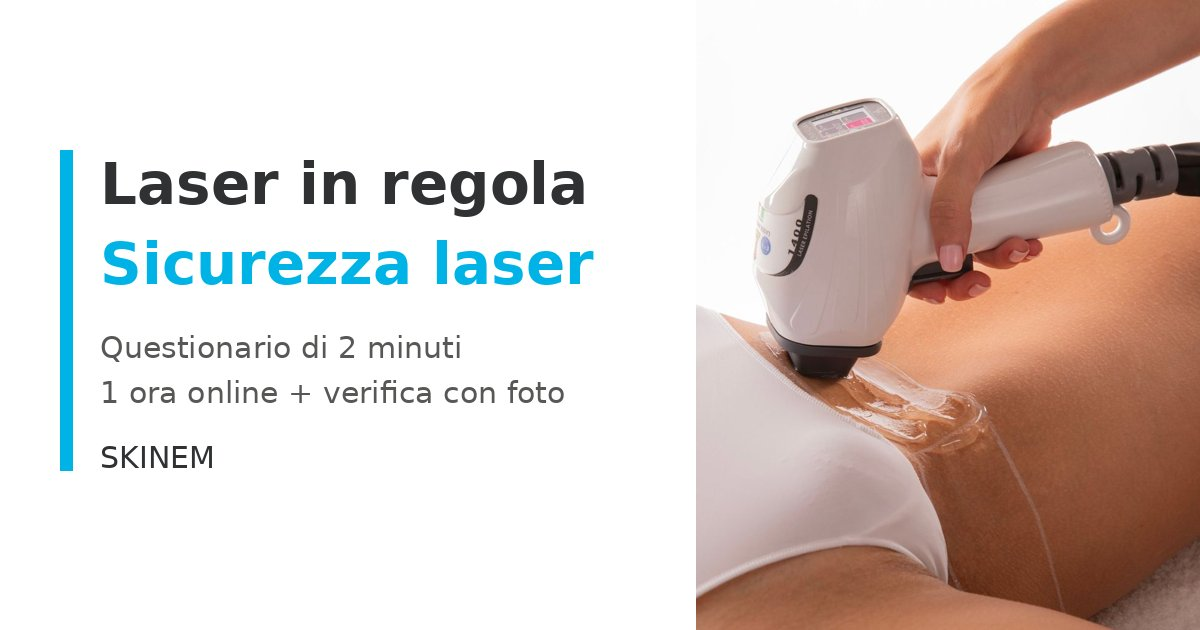
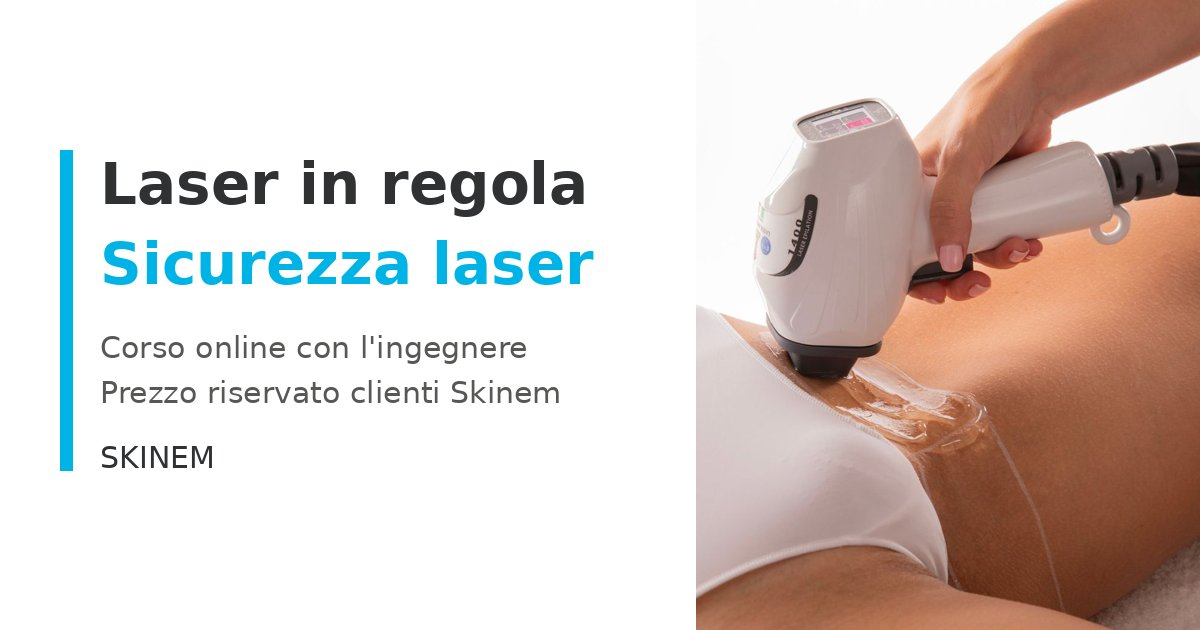
Sicurezza laser: contatto diretto con l'ingegnere, prezzo 400 euro
Claude-Session: https://claude.ai/code/session_01UzveaMuegBw1Fg9psYuSYx

Changed region(s): [[0.0617, 0.6032, 0.4933, 0.6635], [0.0925, 0.5127, 0.4625, 0.573]]

diff --git a/sicurezza-laser.html b/sicurezza-laser.html
@@ -4,7 +4,7 @@
 <meta charset="utf-8">
 <meta name="viewport" content="width=device-width, initial-scale=1, viewport-fit=cover">
 <meta property="og:title" content="Laser in regola · Sicurezza laser">
-<meta property="og:description" content="Questionario di 2 minuti: 1 ora online + verifica con foto.">
+<meta property="og:description" content="Corso sicurezza laser online con l'ingegnere, a prezzo riservato.">
 <meta property="og:image" content="https://link.skinem.it/sicurezza-laser-anteprima.jpg">
 <meta property="og:image:width" content="1200">
 <meta property="og:image:height" content="630">
@@ -32,6 +32,9 @@ h1 b{font-weight:600;color:var(--brand)}
 .step .n{flex:0 0 32px;height:32px;border-radius:50%;background:var(--brand);color:#fff;font-weight:600;display:grid;place-items:center}
 .step b{display:block;font-weight:600}
 .step span{color:var(--soft);font-size:15px}
+.price{display:flex;justify-content:space-between;align-items:center;gap:12px;border:1px solid var(--brand);border-radius:16px;padding:16px 18px;margin-top:16px}
+.price span{font-size:15px;color:var(--soft)}
+.price b{font-size:28px;font-weight:600;color:var(--brand-ink);white-space:nowrap}
 .note{font-size:14px;color:var(--soft);border-left:3px solid var(--brand);padding:4px 0 4px 12px;margin:18px 0 6px}
 h2{font-weight:600;font-size:22px;margin:34px 0 6px}
 .sub{color:var(--soft);font-size:15px;margin-bottom:14px}
@@ -76,98 +79,43 @@ footer b{color:var(--fg);letter-spacing:.14em}
   <p class="lead">Per chi ha un laser epilazione non basta il corso d'uso della macchina: serve anche la formazione sulla sicurezza laser con certificazione (D.Lgs. 81/08 e CEI 76-17) e la nomina dell'Esperto Sicurezza Laser, quello che spesso chiamano TSL.</p>
 
   <div class="steps">
-    <div class="step"><div class="n">1</div><div><b>Rispondi al questionario</b><span>Due minuti, direttamente dal telefono.</span></div></div>
-    <div class="step"><div class="n">2</div><div><b>Mandaci le foto</b><span>Il nostro ingegnere verifica il laser e la cabina.</span></div></div>
-    <div class="step"><div class="n">3</div><div><b>1 ora di corso online</b><span>Senza muoverti dal centro. Sistemiamo subito quello che serve.</span></div></div>
+    <div class="step"><div class="n">1</div><div><b>Lasci i tuoi dati qui sotto</b><span>Un minuto, direttamente dal telefono.</span></div></div>
+    <div class="step"><div class="n">2</div><div><b>Ti mettiamo in contatto con l'ingegnere</b><span>È il nostro consulente per la sicurezza laser: ti scrive lui e ti chiede tutto quello che serve.</span></div></div>
+    <div class="step"><div class="n">3</div><div><b>Corso online in call</b><span>Lo fai con l'ingegnere senza muoverti dal centro, invece del corso in presenza.</span></div></div>
   </div>
-  <p class="note">L'aggiornamento del DVR resta a carico del datore di lavoro: ti diciamo noi cosa va inserito.</p>
+
+  <div class="price"><span>Prezzo riservato alle clienti Skinem</span><b>400 €</b></div>
+  <p class="note">Abbiamo ottenuto questo prezzo per chi ha un nostro laser, così non devi spostarti né chiudere il centro.</p>
 
   <form id="f" novalidate>
-    <h2>Il questionario</h2>
-    <p class="sub">Le risposte arrivano a Enzo su WhatsApp.</p>
+    <h2>Voglio mettermi in regola</h2>
+    <p class="sub">I tuoi dati arrivano a Enzo su WhatsApp, che li passa all'ingegnere.</p>
 
     <div class="q">
-      <div class="ql">Il tuo centro</div>
       <div class="grid2">
         <input type="text" name="centro" placeholder="Nome del centro" autocomplete="organization" required>
         <input type="text" name="titolare" placeholder="Il tuo nome" autocomplete="name" required>
         <input type="text" name="citta" placeholder="Città" autocomplete="address-level2">
-        <input type="tel" name="telefono" placeholder="Telefono" autocomplete="tel">
+        <input type="tel" name="telefono" placeholder="Telefono" autocomplete="tel" required>
       </div>
     </div>
 
     <div class="q">
-      <label for="modello">Che laser hai?</label>
-      <input type="text" id="modello" name="modello" placeholder="Marca e modello (es. Laser Extreme)">
-      <div class="chips" style="margin-top:10px">
-        <input type="radio" name="tipo" id="t1" value="Diodo"><label for="t1">Diodo</label>
-        <input type="radio" name="tipo" id="t2" value="Alessandrite"><label for="t2">Alessandrite</label>
-        <input type="radio" name="tipo" id="t3" value="Nd:YAG"><label for="t3">Nd:YAG</label>
-        <input type="radio" name="tipo" id="t4" value="Non so"><label for="t4">Non so</label>
-      </div>
-    </div>
-
-    <div class="q">
-      <div class="ql">Chi lo usa?</div>
+      <div class="ql">Chi farà il corso?</div>
       <div class="chips">
-        <input type="radio" name="operatori" id="o1" value="Solo io"><label for="o1">Solo io</label>
-        <input type="radio" name="operatori" id="o2" value="Io + 1 collaboratrice"><label for="o2">Io + 1</label>
-        <input type="radio" name="operatori" id="o3" value="Io + 2 o più collaboratrici"><label for="o3">Io + 2 o più</label>
-        <input type="radio" name="operatori" id="o4" value="Solo le collaboratrici"><label for="o4">Solo collaboratrici</label>
+        <input type="radio" name="partecipanti" id="p1" value="Solo io"><label for="p1">Solo io</label>
+        <input type="radio" name="partecipanti" id="p2" value="Io + 1 collaboratrice"><label for="p2">Io + 1</label>
+        <input type="radio" name="partecipanti" id="p3" value="Io + 2 o più collaboratrici"><label for="p3">Io + 2 o più</label>
       </div>
     </div>
 
     <div class="q">
-      <div class="ql">Cosa hai già?</div>
-      <div class="row"><span>Corso d'uso della macchina</span><div class="chips">
-        <input type="radio" name="c_uso" id="a1" value="Sì"><label for="a1">Sì</label>
-        <input type="radio" name="c_uso" id="a2" value="No"><label for="a2">No</label>
-        <input type="radio" name="c_uso" id="a3" value="Non so"><label for="a3">?</label></div></div>
-      <div class="row"><span>Formazione rischi laser certificata</span><div class="chips">
-        <input type="radio" name="c_rischi" id="b1" value="Sì"><label for="b1">Sì</label>
-        <input type="radio" name="c_rischi" id="b2" value="No"><label for="b2">No</label>
-        <input type="radio" name="c_rischi" id="b3" value="Non so"><label for="b3">?</label></div></div>
-      <div class="row"><span>DVR aggiornato con il laser</span><div class="chips">
-        <input type="radio" name="c_dvr" id="c1" value="Sì"><label for="c1">Sì</label>
-        <input type="radio" name="c_dvr" id="c2" value="No"><label for="c2">No</label>
-        <input type="radio" name="c_dvr" id="c3" value="Non so"><label for="c3">?</label></div></div>
-      <div class="row"><span>Esperto Sicurezza Laser (TSL) nominato</span><div class="chips">
-        <input type="radio" name="c_esl" id="d1" value="Sì"><label for="d1">Sì</label>
-        <input type="radio" name="c_esl" id="d2" value="No"><label for="d2">No</label>
-        <input type="radio" name="c_esl" id="d3" value="Non so"><label for="d3">?</label></div></div>
-    </div>
-
-    <div class="q">
-      <div class="ql">La cabina del laser</div>
-      <div class="row"><span>Ha finestre?</span><div class="chips">
-        <input type="radio" name="finestre" id="e1" value="Sì"><label for="e1">Sì</label>
-        <input type="radio" name="finestre" id="e2" value="No"><label for="e2">No</label></div></div>
-      <div class="row"><span>Cartello di pericolo laser sulla porta</span><div class="chips">
-        <input type="radio" name="cartello" id="g1" value="Sì"><label for="g1">Sì</label>
-        <input type="radio" name="cartello" id="g2" value="No"><label for="g2">No</label></div></div>
-      <div class="row"><span>Occhiali protettivi per operatrice e cliente</span><div class="chips">
-        <input type="radio" name="occhiali" id="h1" value="Sì"><label for="h1">Sì</label>
-        <input type="radio" name="occhiali" id="h2" value="No"><label for="h2">No</label></div></div>
-    </div>
-
-    <div class="q">
-      <div class="ql">Chi vuoi come Esperto Sicurezza Laser?</div>
+      <div class="ql">Quando preferisci essere contattata?</div>
       <div class="chips">
-        <input type="radio" name="ruolo_esl" id="r1" value="Voglio diventarlo io"><label for="r1">Voglio diventarlo io</label>
-        <input type="radio" name="ruolo_esl" id="r2" value="Preferisco un consulente esterno"><label for="r2">Un consulente esterno</label>
-        <input type="radio" name="ruolo_esl" id="r3" value="Non so, ne parliamo"><label for="r3">Ne parliamo</label>
+        <input type="radio" name="orario" id="h1" value="Mattina"><label for="h1">Mattina</label>
+        <input type="radio" name="orario" id="h2" value="Pausa pranzo"><label for="h2">Pausa pranzo</label>
+        <input type="radio" name="orario" id="h3" value="Sera"><label for="h3">Sera</label>
       </div>
-    </div>
-
-    <div class="q">
-      <div class="ql">Dopo l'invio, mandaci su WhatsApp queste foto</div>
-      <ul class="photos">
-        <li><i>📷</i>Il laser intero, di fronte</li>
-        <li><i>🏷</i>L'etichetta con marca, modello e matricola (di solito sul retro)</li>
-        <li><i>🚪</i>La cabina vista dalla porta</li>
-        <li><i>⚠</i>La porta della cabina dall'esterno</li>
-        <li><i>🕶</i>Gli occhiali protettivi che usate</li>
-      </ul>
     </div>
 
     <div class="cta">
@@ -178,7 +126,7 @@ footer b{color:var(--fg);letter-spacing:.14em}
 
   <div class="done" id="done">
     <h3>Grazie! 🙌</h3>
-    <p>Ora, nella chat di WhatsApp che si è aperta, allega le foto della lista. Ti ricontattiamo noi per fissare l'ora di corso online.</p>
+    <p>Invia il messaggio nella chat di WhatsApp che si è aperta: passiamo subito i tuoi dati all'ingegnere, che ti contatterà per organizzare il corso.</p>
   </div>
 
   <footer><b>SKINEM</b><br>Enzo Evandri · formazione e tecnologie per centri estetici</footer>
@@ -192,24 +140,14 @@ footer b{color:var(--fg);letter-spacing:.14em}
   function line(label,n){var x=v(n); return label+': '+(x||'—');}
   f.addEventListener('submit',function(e){
     e.preventDefault();
-    if(!v('centro')||!v('titolare')){err.textContent='Inserisci almeno il nome del centro e il tuo nome.'; f.elements['centro'].focus(); return;}
+    if(!v('centro')||!v('titolare')||!v('telefono')){err.textContent='Inserisci nome del centro, il tuo nome e il telefono.'; f.elements['centro'].focus(); return;}
     err.textContent='';
     var t=[
-      '*Questionario sicurezza laser*',
+      '*Corso sicurezza laser*',
+      'Voglio essere messa in contatto con l\u2019ingegnere.',
       '',
       line('Centro','centro'), line('Titolare','titolare'), line('Città','citta'), line('Telefono','telefono'),
-      '',
-      line('Laser','modello'), line('Tipo','tipo'), line('Chi lo usa','operatori'),
-      '',
-      '*Cosa ho già*',
-      line('Corso d’uso','c_uso'), line('Formazione rischi laser','c_rischi'), line('DVR aggiornato','c_dvr'), line('ESL/TSL nominato','c_esl'),
-      '',
-      '*Cabina*',
-      line('Finestre','finestre'), line('Cartello laser','cartello'), line('Occhiali protettivi','occhiali'),
-      '',
-      line('Esperto Sicurezza Laser','ruolo_esl'),
-      '',
-      'Ora ti mando le foto del laser e della cabina.'
+      line('Partecipanti','partecipanti'), line('Orario preferito','orario')
     ].join('\n');
     document.getElementById('done').style.display='block';
     window.location.href='https://wa.me/'+WA+'?text='+encodeURIComponent(t);
